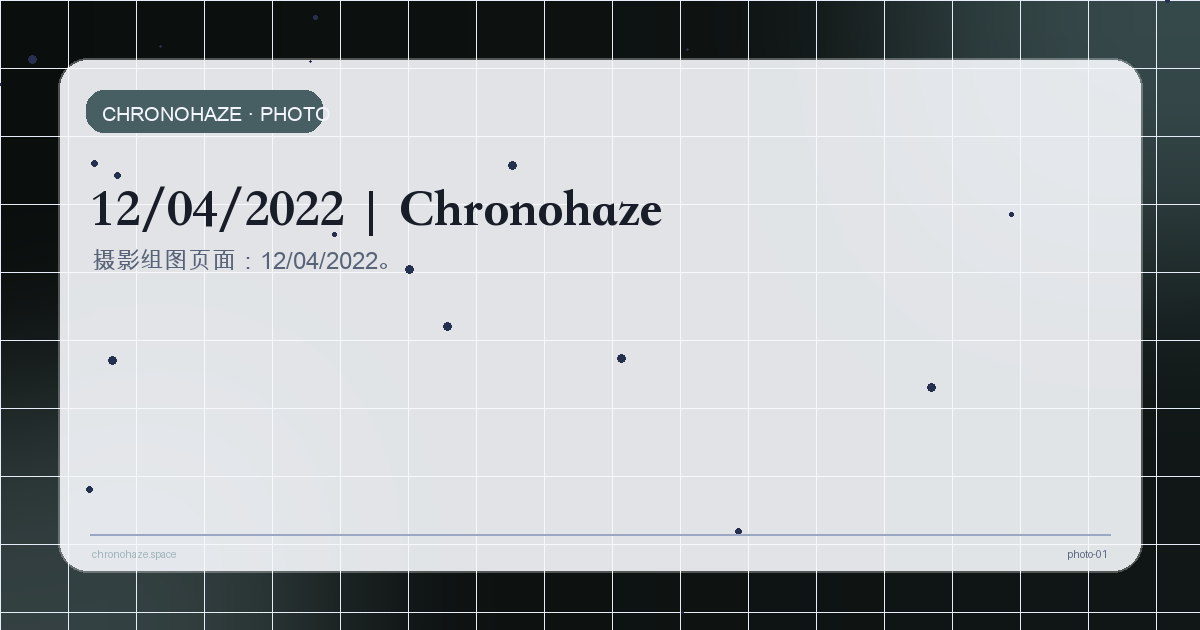
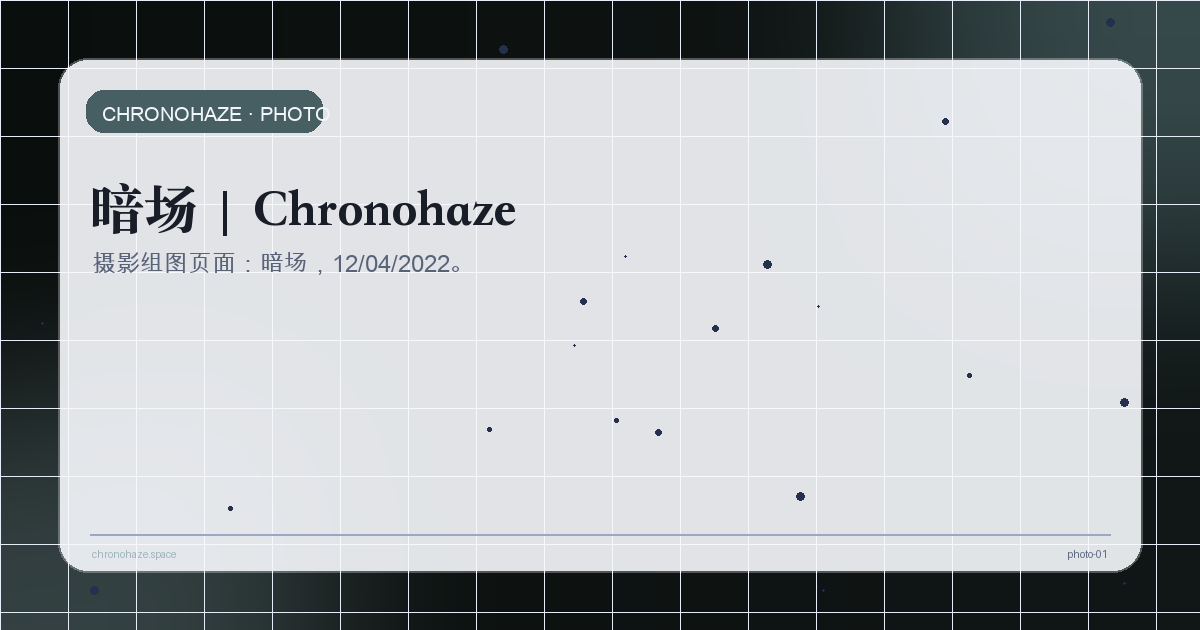
Rename early 2022 photo series

Changed region(s): [[0.0617, 0.2714, 0.555, 0.4524]]

diff --git a/photography.html b/photography.html
@@ -418,7 +418,7 @@
 <img alt="摄影系列预览图：14/06/2022 — 英国奥斯沃斯特里 · 2022年" decoding="async" height="2667" loading="lazy" sizes="(max-width: 640px) 92vw, (max-width: 980px) 46vw, 29vw" src="assets/images/wix/64569d_b17cf5f86f28473cbd8435965bb115f9~mv2-960.webp" width="4000"/>
 </picture>
 <div class="photo-meta">
-<p class="photo-title" data-copy-en="Surface and Weather" data-copy-zh="表面与天气">表面与天气</p>
+<p class="photo-title" data-copy-en="Offstage Light" data-copy-zh="场外光">场外光</p>
 <p class="photo-date" data-copy-en="14/06/2022" data-copy-zh="14/06/2022">14/06/2022</p>
 <p class="photo-subtitle" data-copy-en="Read More" data-copy-zh="阅读全文">阅读全文</p>
 </div>
@@ -431,7 +431,7 @@
 <img alt="摄影系列预览图：01/06/2022 — 英国奥斯沃斯特里 · 2022年" decoding="async" height="2667" loading="lazy" sizes="(max-width: 640px) 92vw, (max-width: 980px) 46vw, 29vw" src="assets/images/wix/64569d_1f61221c68ef4c35b613cb2cc6ab4836~mv2-960.webp" width="4000"/>
 </picture>
 <div class="photo-meta">
-<p class="photo-title" data-copy-en="Blue Edge" data-copy-zh="蓝色边缘">蓝色边缘</p>
+<p class="photo-title" data-copy-en="Blue Room for Flowers" data-copy-zh="暗蓝花室">暗蓝花室</p>
 <p class="photo-date" data-copy-en="01/06/2022" data-copy-zh="01/06/2022">01/06/2022</p>
 <p class="photo-subtitle" data-copy-en="Read More" data-copy-zh="阅读全文">阅读全文</p>
 </div>
@@ -444,7 +444,7 @@
 <img alt="摄影系列预览图：01/05/2022 — 英国奥斯沃斯特里 · 2022年" decoding="async" height="2667" loading="lazy" sizes="(max-width: 640px) 92vw, (max-width: 980px) 46vw, 29vw" src="assets/images/wix/64569d_d7ae8483633d46f0819abd80335c3524~mv2-960.webp" width="4000"/>
 </picture>
 <div class="photo-meta">
-<p class="photo-title" data-copy-en="Field / Distance" data-copy-zh="田野与距离">田野与距离</p>
+<p class="photo-title" data-copy-en="Before Bloom" data-copy-zh="未成花">未成花</p>
 <p class="photo-date" data-copy-en="01/05/2022" data-copy-zh="01/05/2022">01/05/2022</p>
 <p class="photo-subtitle" data-copy-en="Read More" data-copy-zh="阅读全文">阅读全文</p>
 </div>
@@ -457,7 +457,7 @@
 <img alt="摄影系列预览图：12/04/2022 — 英国奥斯沃斯特里 · 2022年" decoding="async" height="2667" loading="lazy" sizes="(max-width: 640px) 92vw, (max-width: 980px) 46vw, 29vw" src="assets/images/wix/64569d_58fc50d6b50e41e9a0b664f30ab32237~mv2-960.webp" width="4000"/>
 </picture>
 <div class="photo-meta">
-<p class="photo-title" data-copy-en="Early Light Study" data-copy-zh="早期光线练习">早期光线练习</p>
+<p class="photo-title" data-copy-en="Dark Field" data-copy-zh="暗场">暗场</p>
 <p class="photo-date" data-copy-en="12/04/2022" data-copy-zh="12/04/2022">12/04/2022</p>
 <p class="photo-subtitle" data-copy-en="Read More" data-copy-zh="阅读全文">阅读全文</p>
 </div>

diff --git a/search.html b/search.html
@@ -1044,7 +1044,7 @@
       "content": "chronohaze.space 主页 数学 摄影 音乐 CV 2022、夏、某 英国韦茅斯 · 2022年 返回摄影栏目 chronohaze.space 辗转不同国家无固定号码 请联系邮箱： moc.duolci@035reief 重庆 · Edinburgh · New York © 2026 by chronohaze.space. Powered and secured by GitHub Pages. LinkedIn Instagram Bilibili GitHub 网站说明 无障碍支持"
     },
     {
-      "title": "表面与天气",
+      "title": "场外光",
       "url": "photo/photo-04.html",
       "section": "Photography",
       "date": "14/06/2022",
@@ -1057,7 +1057,7 @@
       "content": "chronohaze.space 主页 数学 摄影 音乐 CV 14/06/2022 英国奥斯沃斯特里 · 2022年 返回摄影栏目 chronohaze.space 辗转不同国家无固定号码 请联系邮箱： moc.duolci@035reief 重庆 · Edinburgh · New York © 2026 by chronohaze.space. Powered and secured by GitHub Pages. LinkedIn Instagram Bilibili GitHub 网站说明 无障碍支持"
     },
     {
-      "title": "早期光线练习",
+      "title": "暗场",
       "url": "photo/photo-01.html",
       "section": "Photography",
       "date": "12/04/2022",
@@ -1070,7 +1070,7 @@
       "content": "chronohaze.space 主页 数学 摄影 音乐 CV 12/04/2022 英国奥斯沃斯特里 · 2022年 返回摄影栏目 chronohaze.space 辗转不同国家无固定号码 请联系邮箱： moc.duolci@035reief 重庆 · Edinburgh · New York © 2026 by chronohaze.space. Powered and secured by GitHub Pages. LinkedIn Instagram Bilibili GitHub 网站说明 无障碍支持"
     },
     {
-      "title": "蓝色边缘",
+      "title": "暗蓝花室",
       "url": "photo/photo-03.html",
       "section": "Photography",
       "date": "01/06/2022",
@@ -1083,7 +1083,7 @@
       "content": "chronohaze.space 主页 数学 摄影 音乐 CV 01/06/2022 英国奥斯沃斯特里 · 2022年 返回摄影栏目 chronohaze.space 辗转不同国家无固定号码 请联系邮箱： moc.duolci@035reief 重庆 · Edinburgh · New York © 2026 by chronohaze.space. Powered and secured by GitHub Pages. LinkedIn Instagram Bilibili GitHub 网站说明 无障碍支持"
     },
     {
-      "title": "田野与距离",
+      "title": "未成花",
       "url": "photo/photo-02.html",
       "section": "Photography",
       "date": "01/05/2022",

diff --git a/photo/photo-03.html b/photo/photo-03.html
@@ -139,17 +139,17 @@
   </script>
   <link rel="icon" type="image/x-icon" href="https://lyuf09.github.io/chronohaze/assets/favicon.ico?v=4" />
   <link rel="apple-touch-icon" href="https://lyuf09.github.io/chronohaze/assets/apple-touch-icon.png?v=4" />
-  <title>01/06/2022 | 摄影 | Chronohaze</title>
-  <meta name="description" content="摄影组图页面：01/06/2022。" />
+  <title>暗蓝花室 | 摄影 | Chronohaze</title>
+  <meta name="description" content="摄影组图页面：暗蓝花室，01/06/2022。" />
   <meta property="og:type" content="article" />
   <meta property="og:site_name" content="Chronohaze" />
-  <meta property="og:title" content="01/06/2022 | Chronohaze" />
-  <meta property="og:description" content="摄影组图页面：01/06/2022。" />
+  <meta property="og:title" content="暗蓝花室 | Chronohaze" />
+  <meta property="og:description" content="摄影组图页面：暗蓝花室，01/06/2022。" />
   <meta property="og:url" content="https://lyuf09.github.io/chronohaze/photo/photo-03.html" />
   <meta property="og:image" content="https://lyuf09.github.io/chronohaze/assets/og/site/photo-03.png" />
   <meta name="twitter:card" content="summary_large_image" />
-  <meta name="twitter:title" content="01/06/2022 | Chronohaze" />
-  <meta name="twitter:description" content="摄影组图页面：01/06/2022。" />
+  <meta name="twitter:title" content="暗蓝花室 | Chronohaze" />
+  <meta name="twitter:description" content="摄影组图页面：暗蓝花室，01/06/2022。" />
   <meta name="twitter:image" content="https://lyuf09.github.io/chronohaze/assets/og/site/photo-03.png" />
   <link rel="canonical" href="https://lyuf09.github.io/chronohaze/photo/photo-03.html" />
 
@@ -221,7 +221,7 @@
 
     <main class="main">
       <article class="article photo-detail-article">
-        <h1 data-copy-en="Blue Edge" data-copy-zh="蓝色边缘">蓝色边缘</h1>
+        <h1 data-copy-en="Blue Room for Flowers" data-copy-zh="暗蓝花室">暗蓝花室</h1>
         <p class="photo-detail-date" data-copy-en="01/06/2022" data-copy-zh="01/06/2022">01/06/2022</p>
         <p class="article-meta">英国奥斯沃斯特里 · 2022年</p>
         <div class="photo-detail-gallery photo-detail-gallery--bright">

diff --git a/photo/photo-01.html b/photo/photo-01.html
@@ -139,17 +139,17 @@
   </script>
   <link rel="icon" type="image/x-icon" href="https://lyuf09.github.io/chronohaze/assets/favicon.ico?v=4" />
   <link rel="apple-touch-icon" href="https://lyuf09.github.io/chronohaze/assets/apple-touch-icon.png?v=4" />
-  <title>12/04/2022 | 摄影 | Chronohaze</title>
-  <meta name="description" content="摄影组图页面：12/04/2022。" />
+  <title>暗场 | 摄影 | Chronohaze</title>
+  <meta name="description" content="摄影组图页面：暗场，12/04/2022。" />
   <meta property="og:type" content="article" />
   <meta property="og:site_name" content="Chronohaze" />
-  <meta property="og:title" content="12/04/2022 | Chronohaze" />
-  <meta property="og:description" content="摄影组图页面：12/04/2022。" />
+  <meta property="og:title" content="暗场 | Chronohaze" />
+  <meta property="og:description" content="摄影组图页面：暗场，12/04/2022。" />
   <meta property="og:url" content="https://lyuf09.github.io/chronohaze/photo/photo-01.html" />
   <meta property="og:image" content="https://lyuf09.github.io/chronohaze/assets/og/site/photo-01.png" />
   <meta name="twitter:card" content="summary_large_image" />
-  <meta name="twitter:title" content="12/04/2022 | Chronohaze" />
-  <meta name="twitter:description" content="摄影组图页面：12/04/2022。" />
+  <meta name="twitter:title" content="暗场 | Chronohaze" />
+  <meta name="twitter:description" content="摄影组图页面：暗场，12/04/2022。" />
   <meta name="twitter:image" content="https://lyuf09.github.io/chronohaze/assets/og/site/photo-01.png" />
   <link rel="canonical" href="https://lyuf09.github.io/chronohaze/photo/photo-01.html" />
 
@@ -221,7 +221,7 @@
 
     <main class="main">
       <article class="article photo-detail-article">
-        <h1 data-copy-en="Early Light Study" data-copy-zh="早期光线练习">早期光线练习</h1>
+        <h1 data-copy-en="Dark Field" data-copy-zh="暗场">暗场</h1>
         <p class="photo-detail-date" data-copy-en="12/04/2022" data-copy-zh="12/04/2022">12/04/2022</p>
         <p class="article-meta">英国奥斯沃斯特里 · 2022年</p>
         <div class="photo-detail-gallery photo-detail-gallery--bright-strong">

diff --git a/photo/photo-04.html b/photo/photo-04.html
@@ -139,17 +139,17 @@
   </script>
   <link rel="icon" type="image/x-icon" href="https://lyuf09.github.io/chronohaze/assets/favicon.ico?v=4" />
   <link rel="apple-touch-icon" href="https://lyuf09.github.io/chronohaze/assets/apple-touch-icon.png?v=4" />
-  <title>14/06/2022 | 摄影 | Chronohaze</title>
-  <meta name="description" content="摄影组图页面：14/06/2022。" />
+  <title>场外光 | 摄影 | Chronohaze</title>
+  <meta name="description" content="摄影组图页面：场外光，14/06/2022。" />
   <meta property="og:type" content="article" />
   <meta property="og:site_name" content="Chronohaze" />
-  <meta property="og:title" content="14/06/2022 | Chronohaze" />
-  <meta property="og:description" content="摄影组图页面：14/06/2022。" />
+  <meta property="og:title" content="场外光 | Chronohaze" />
+  <meta property="og:description" content="摄影组图页面：场外光，14/06/2022。" />
   <meta property="og:url" content="https://lyuf09.github.io/chronohaze/photo/photo-04.html" />
   <meta property="og:image" content="https://lyuf09.github.io/chronohaze/assets/og/site/photo-04.png" />
   <meta name="twitter:card" content="summary_large_image" />
-  <meta name="twitter:title" content="14/06/2022 | Chronohaze" />
-  <meta name="twitter:description" content="摄影组图页面：14/06/2022。" />
+  <meta name="twitter:title" content="场外光 | Chronohaze" />
+  <meta name="twitter:description" content="摄影组图页面：场外光，14/06/2022。" />
   <meta name="twitter:image" content="https://lyuf09.github.io/chronohaze/assets/og/site/photo-04.png" />
   <link rel="canonical" href="https://lyuf09.github.io/chronohaze/photo/photo-04.html" />
 
@@ -221,7 +221,7 @@
 
     <main class="main">
       <article class="article photo-detail-article">
-        <h1 data-copy-en="Surface and Weather" data-copy-zh="表面与天气">表面与天气</h1>
+        <h1 data-copy-en="Offstage Light" data-copy-zh="场外光">场外光</h1>
         <p class="photo-detail-date" data-copy-en="14/06/2022" data-copy-zh="14/06/2022">14/06/2022</p>
         <p class="article-meta">英国奥斯沃斯特里 · 2022年</p>
         <div class="photo-detail-gallery">

diff --git a/photo/photo-02.html b/photo/photo-02.html
@@ -139,17 +139,17 @@
   </script>
   <link rel="icon" type="image/x-icon" href="https://lyuf09.github.io/chronohaze/assets/favicon.ico?v=4" />
   <link rel="apple-touch-icon" href="https://lyuf09.github.io/chronohaze/assets/apple-touch-icon.png?v=4" />
-  <title>01/05/2022 | 摄影 | Chronohaze</title>
-  <meta name="description" content="摄影组图页面：01/05/2022。" />
+  <title>未成花 | 摄影 | Chronohaze</title>
+  <meta name="description" content="摄影组图页面：未成花，01/05/2022。" />
   <meta property="og:type" content="article" />
   <meta property="og:site_name" content="Chronohaze" />
-  <meta property="og:title" content="01/05/2022 | Chronohaze" />
-  <meta property="og:description" content="摄影组图页面：01/05/2022。" />
+  <meta property="og:title" content="未成花 | Chronohaze" />
+  <meta property="og:description" content="摄影组图页面：未成花，01/05/2022。" />
   <meta property="og:url" content="https://lyuf09.github.io/chronohaze/photo/photo-02.html" />
   <meta property="og:image" content="https://lyuf09.github.io/chronohaze/assets/og/site/photo-02.png" />
   <meta name="twitter:card" content="summary_large_image" />
-  <meta name="twitter:title" content="01/05/2022 | Chronohaze" />
-  <meta name="twitter:description" content="摄影组图页面：01/05/2022。" />
+  <meta name="twitter:title" content="未成花 | Chronohaze" />
+  <meta name="twitter:description" content="摄影组图页面：未成花，01/05/2022。" />
   <meta name="twitter:image" content="https://lyuf09.github.io/chronohaze/assets/og/site/photo-02.png" />
   <link rel="canonical" href="https://lyuf09.github.io/chronohaze/photo/photo-02.html" />
 
@@ -221,7 +221,7 @@
 
     <main class="main">
       <article class="article photo-detail-article">
-        <h1 data-copy-en="Field / Distance" data-copy-zh="田野与距离">田野与距离</h1>
+        <h1 data-copy-en="Before Bloom" data-copy-zh="未成花">未成花</h1>
         <p class="photo-detail-date" data-copy-en="01/05/2022" data-copy-zh="01/05/2022">01/05/2022</p>
         <p class="article-meta">英国奥斯沃斯特里 · 2022年</p>
         <div class="photo-detail-gallery">
